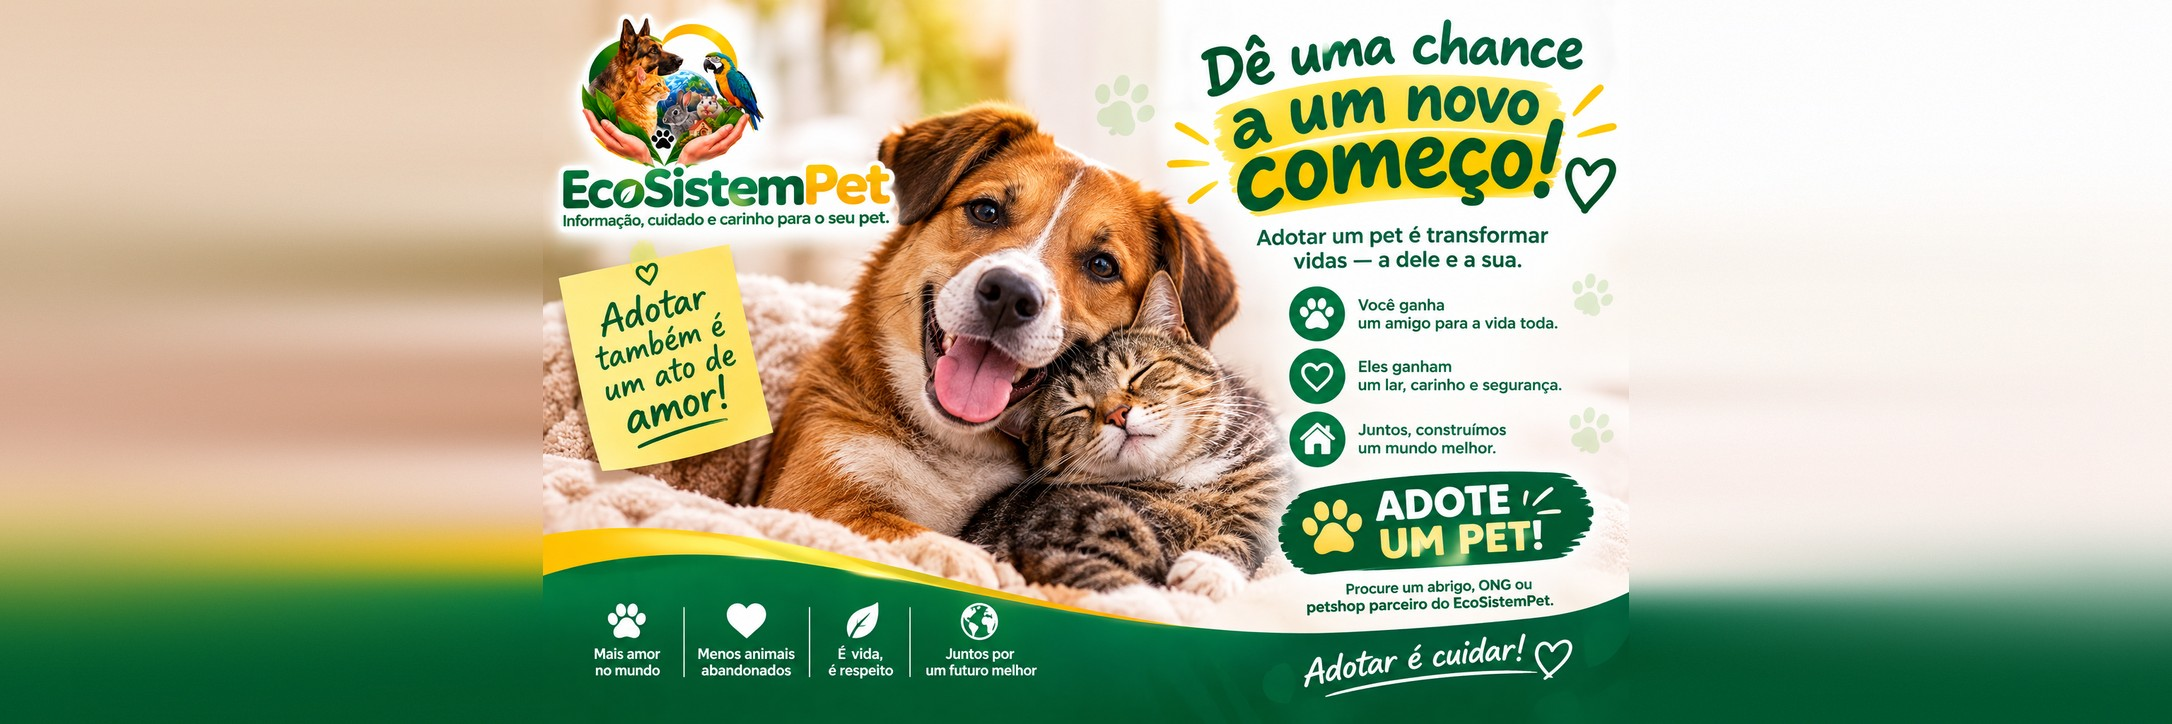
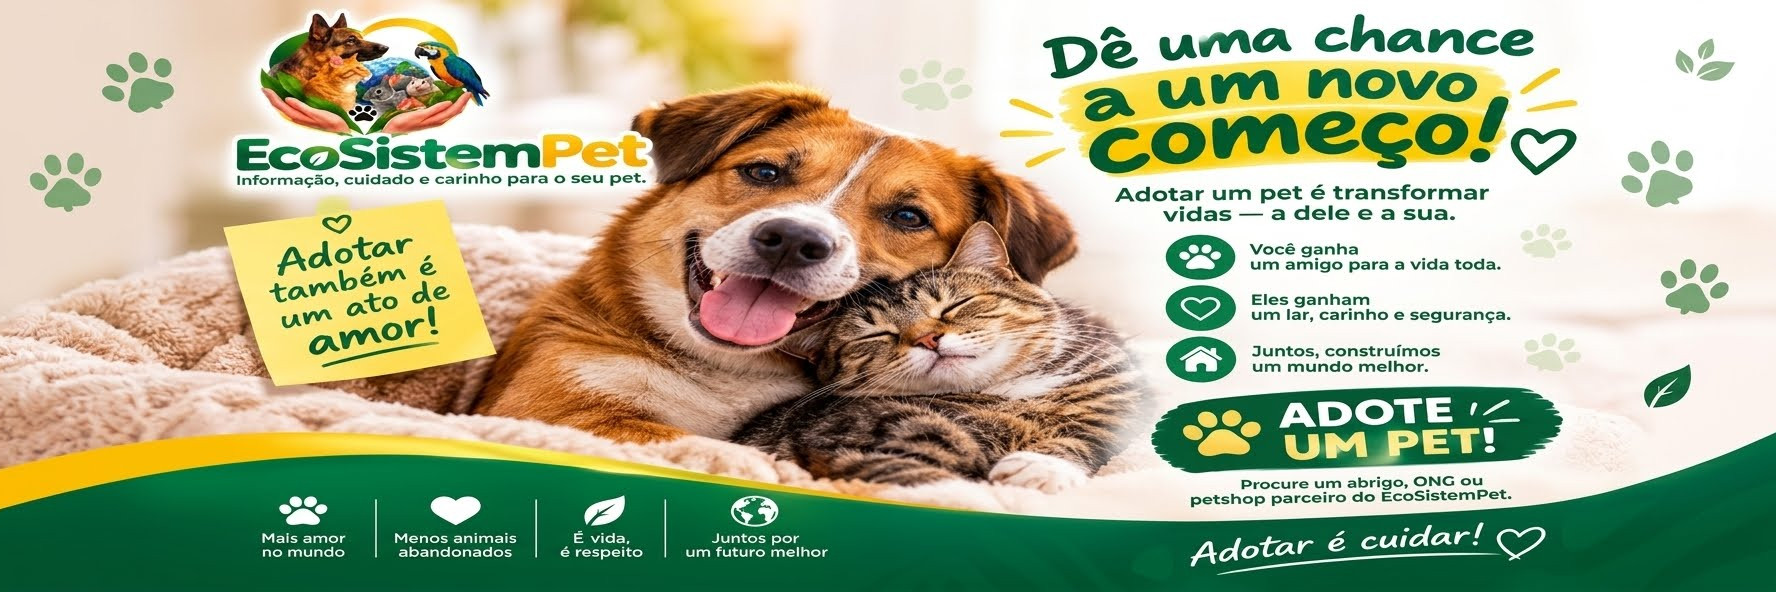
Corrigir recorte e proporcao das imagens

diff --git a/index.html b/index.html
@@ -102,7 +102,7 @@
     <!-- ========================= -->
 
     <link rel="stylesheet" href="assets/css/style.css?v=20261031-alerta">
-    <link rel="stylesheet" href="assets/css/educacao-pet.css?v=2">
+    <link rel="stylesheet" href="assets/css/educacao-pet.css?v=3">
 
 </head>
 
@@ -423,8 +423,27 @@
 
         </header>
 
-        <!-- Espaçamento para compensar o header fixo -->
-        <div style="height:95px;"></div>
+        <!-- Espaçamento para compensar o header fixo (a altura acompanha o header de verdade,
+             sem sobrar faixa clara entre o menu e o banner) -->
+        <div id="headerSpacer" style="height:91px;"></div>
+        <script>
+            (function () {
+                var header = document.getElementById('header');
+                var spacer = document.getElementById('headerSpacer');
+                if (!header || !spacer) { return; }
+                function ajustar() {
+                    // Com o menu do celular aberto o header cresce por cima da página: não mexe.
+                    if (header.querySelector('.navbar-collapse.show, .navbar-collapse.collapsing')) { return; }
+                    spacer.style.height = Math.ceil(header.getBoundingClientRect().height) + 'px';
+                }
+                ajustar();
+                window.addEventListener('load', ajustar);
+                window.addEventListener('resize', ajustar);
+                header.addEventListener('hidden.bs.collapse', ajustar);
+                if (document.fonts && document.fonts.ready) { document.fonts.ready.then(ajustar); }
+                if (window.ResizeObserver) { new ResizeObserver(ajustar).observe(header); }
+            })();
+        </script>
 
         <!-- ========================================================= -->
         <!-- HERO / BANNER PRINCIPAL -->

diff --git a/assets/css/style.css b/assets/css/style.css
@@ -873,8 +873,18 @@ html.pwa-mais-aberto body {
 
 #hero .carousel-item {
     position: relative;
-    height: clamp(160px, 34vw, 520px);
+    /* Mesma proporção dos banners (3:1): sem faixa clara em cima/embaixo,
+       inclusive no celular. O teto de 520px continua valendo em telas grandes. */
+    aspect-ratio: 3 / 1;
+    max-height: 520px;
     background: #f2f8fb;
+}
+
+/* A imagem (ou o link que a envolve) preenche o slide por inteiro */
+#hero .carousel-item > .hero-image,
+#hero .carousel-item > a {
+    position: absolute;
+    inset: 0;
 }
 
 /* ==========================================================

diff --git a/assets/css/educacao-pet.css b/assets/css/educacao-pet.css
@@ -1,5 +1,5 @@
 /* Secao "Cuide melhor do seu pet" + baralho de videos educativos */
-#meu-pet .ep-foto{width:100%;max-height:200px;height:200px;object-fit:cover}
+#meu-pet .ep-foto{width:100%;max-height:200px;height:200px;object-fit:contain;object-position:center;background:#f8f9fa}
 #meu-pet .ep-lista{list-style:none;margin:0 0 .75rem;padding:0;display:grid;gap:.35rem}
 #meu-pet .ep-lista li{font-size:.85rem;display:flex;gap:.4rem;line-height:1.4}
 #meu-pet .ep-lista li::before{content:"\2714";color:#198754;flex:none}
